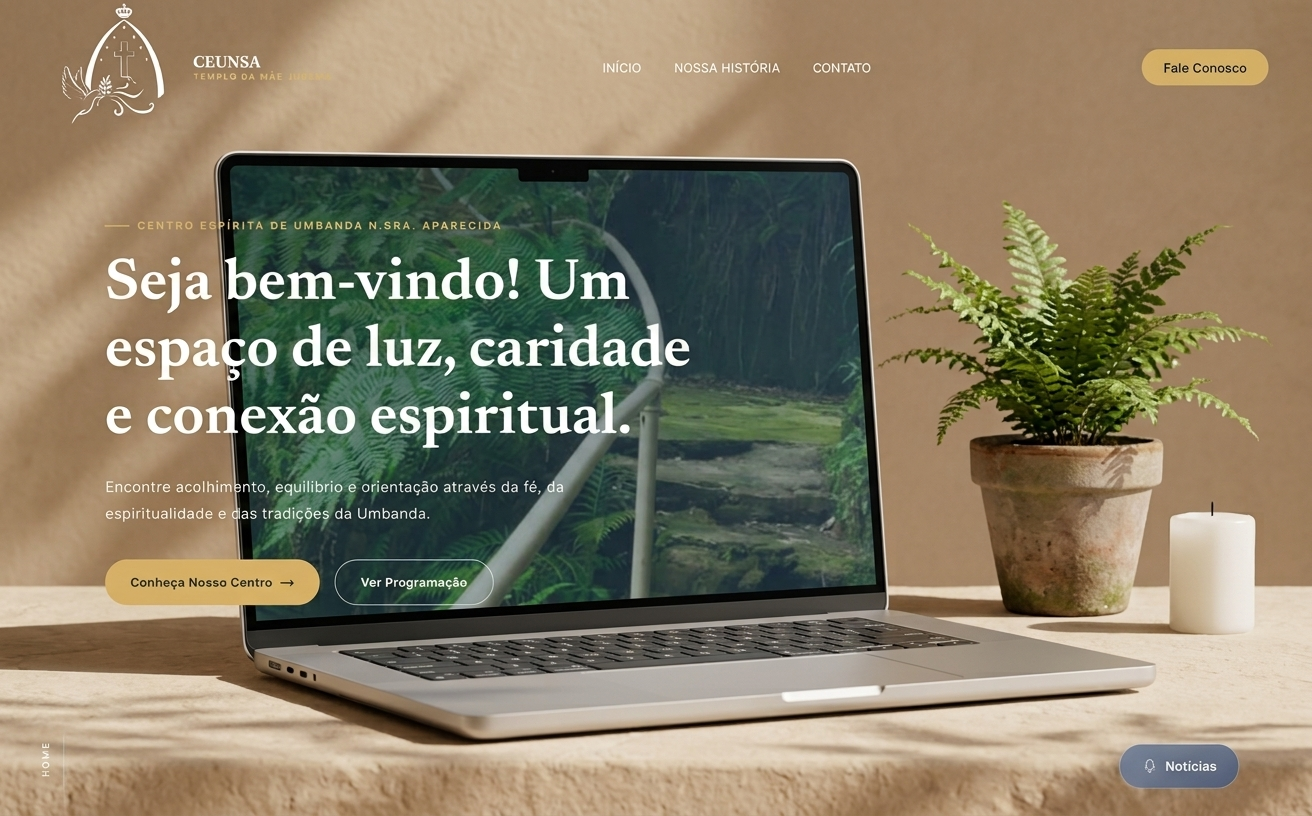
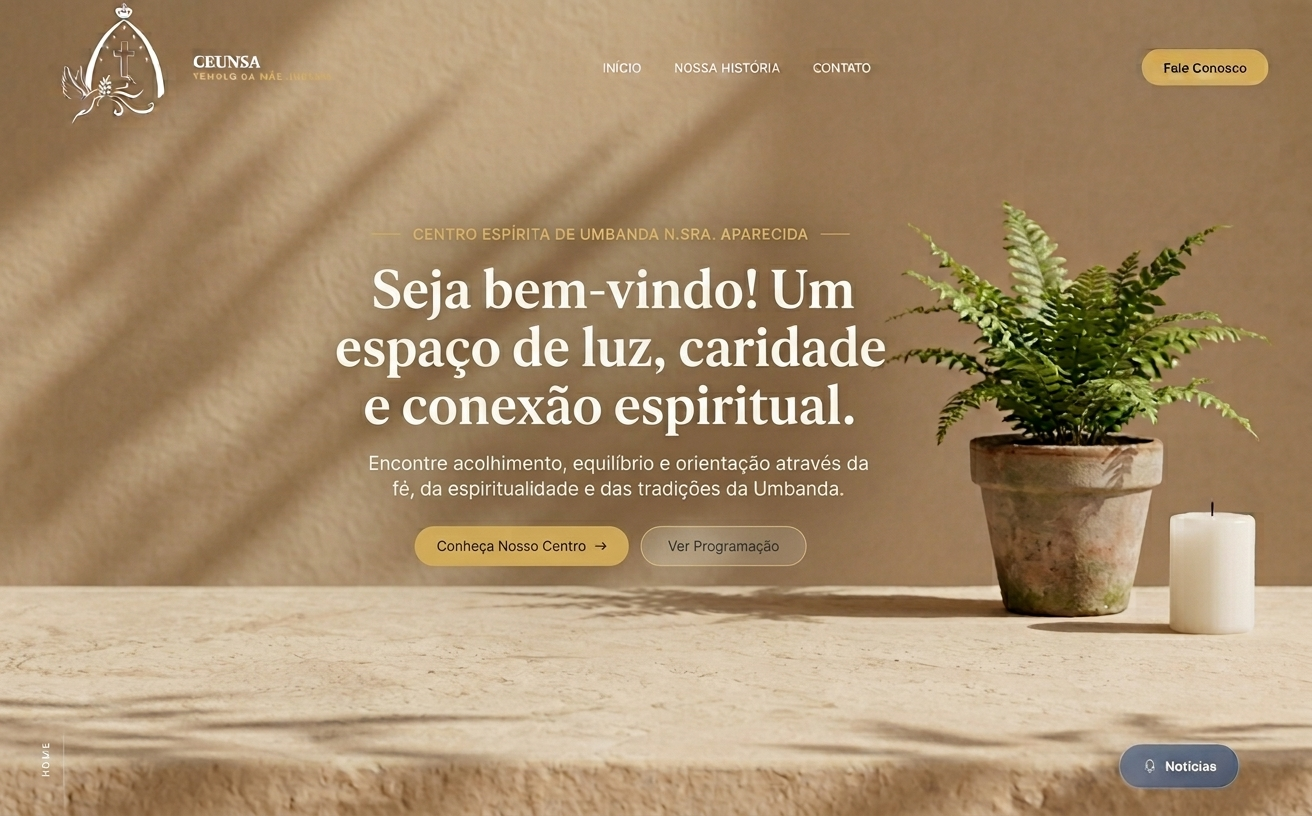
ceunsa link and images

diff --git a/src/components/layout/Footer.tsx b/src/components/layout/Footer.tsx
@@ -20,7 +20,7 @@ export function Footer({ locale, t: footer, newTabLabel }: Props) {
             <br />
             {footer.lead[1]}
           </p>
-          <a className={styles.mail} href={`mailto:${site.email}`}>
+          <a className={styles.mail} href={`mailto:${site.email}`} data-cursor-target>
             {site.email}
           </a>
         </div>
@@ -32,7 +32,11 @@ export function Footer({ locale, t: footer, newTabLabel }: Props) {
           <ul>
             {sitemap.map((item, i) => (
               <li key={item.href}>
-                <Link href={localePath(locale, item.href)} className={i === 0 ? styles.linkStrong : styles.link}>
+                <Link
+                  href={localePath(locale, item.href)}
+                  className={i === 0 ? styles.linkStrong : styles.link}
+                  data-cursor-target
+                >
                   {footer.sitemap[item.key]}
                 </Link>
               </li>
@@ -47,7 +51,7 @@ export function Footer({ locale, t: footer, newTabLabel }: Props) {
           <ul>
             {social.map((item) => (
               <li key={item.label}>
-                <a className={styles.link} href={item.href} target="_blank" rel="noopener noreferrer">
+                <a className={styles.link} href={item.href} target="_blank" rel="noopener noreferrer" data-cursor-target>
                   {item.label}
                   <span className="sr-only"> {newTabLabel}</span>
                 </a>
@@ -69,7 +73,7 @@ export function Footer({ locale, t: footer, newTabLabel }: Props) {
 
       <div className={styles.wordmark} aria-hidden="true">
         {WORDMARK.map((ch, i) => (
-          <span key={i} className={styles.letter}>
+          <span key={i} className={styles.letter} data-cursor-target>
             <span className={styles.letterBase}>{ch}</span>
             <span className={styles.letterHover}>{ch}</span>
           </span>

diff --git a/src/content/projects.ts b/src/content/projects.ts
@@ -340,7 +340,7 @@ const data: Project[] = [
     categories: [
       "websites"
     ],
-    url: null,
+    url: "https://ceunsa.webcraftz.com.br/",
     featured: false,
     order: 5,
     cover: {
@@ -387,7 +387,6 @@ const data: Project[] = [
       }
     ],
     needsReview: [
-      "url: o site atual aponta para example.com",
       "discipline",
       "metrics em inglês no site atual",
       "imagens parecem do template Framer (alt \"Atelier Sōl\"), não do CEUNSA"

diff --git a/src/content/dictionaries/pt.ts b/src/content/dictionaries/pt.ts
@@ -3,7 +3,7 @@
 
 export const pt = {
   meta: {
-    title: "Webcraftz — da faísca para a órbita.",
+    title: "Desenvolvimento criativo",
     description:
       "Para fundadores e empresas que precisam de mais do que um site. Aplicações web, assistentes de IA e automações, entregues por meio de um processo claro, da primeira ideia ao lançamento e além.",
     skipLink: "Pular para o conteúdo",
